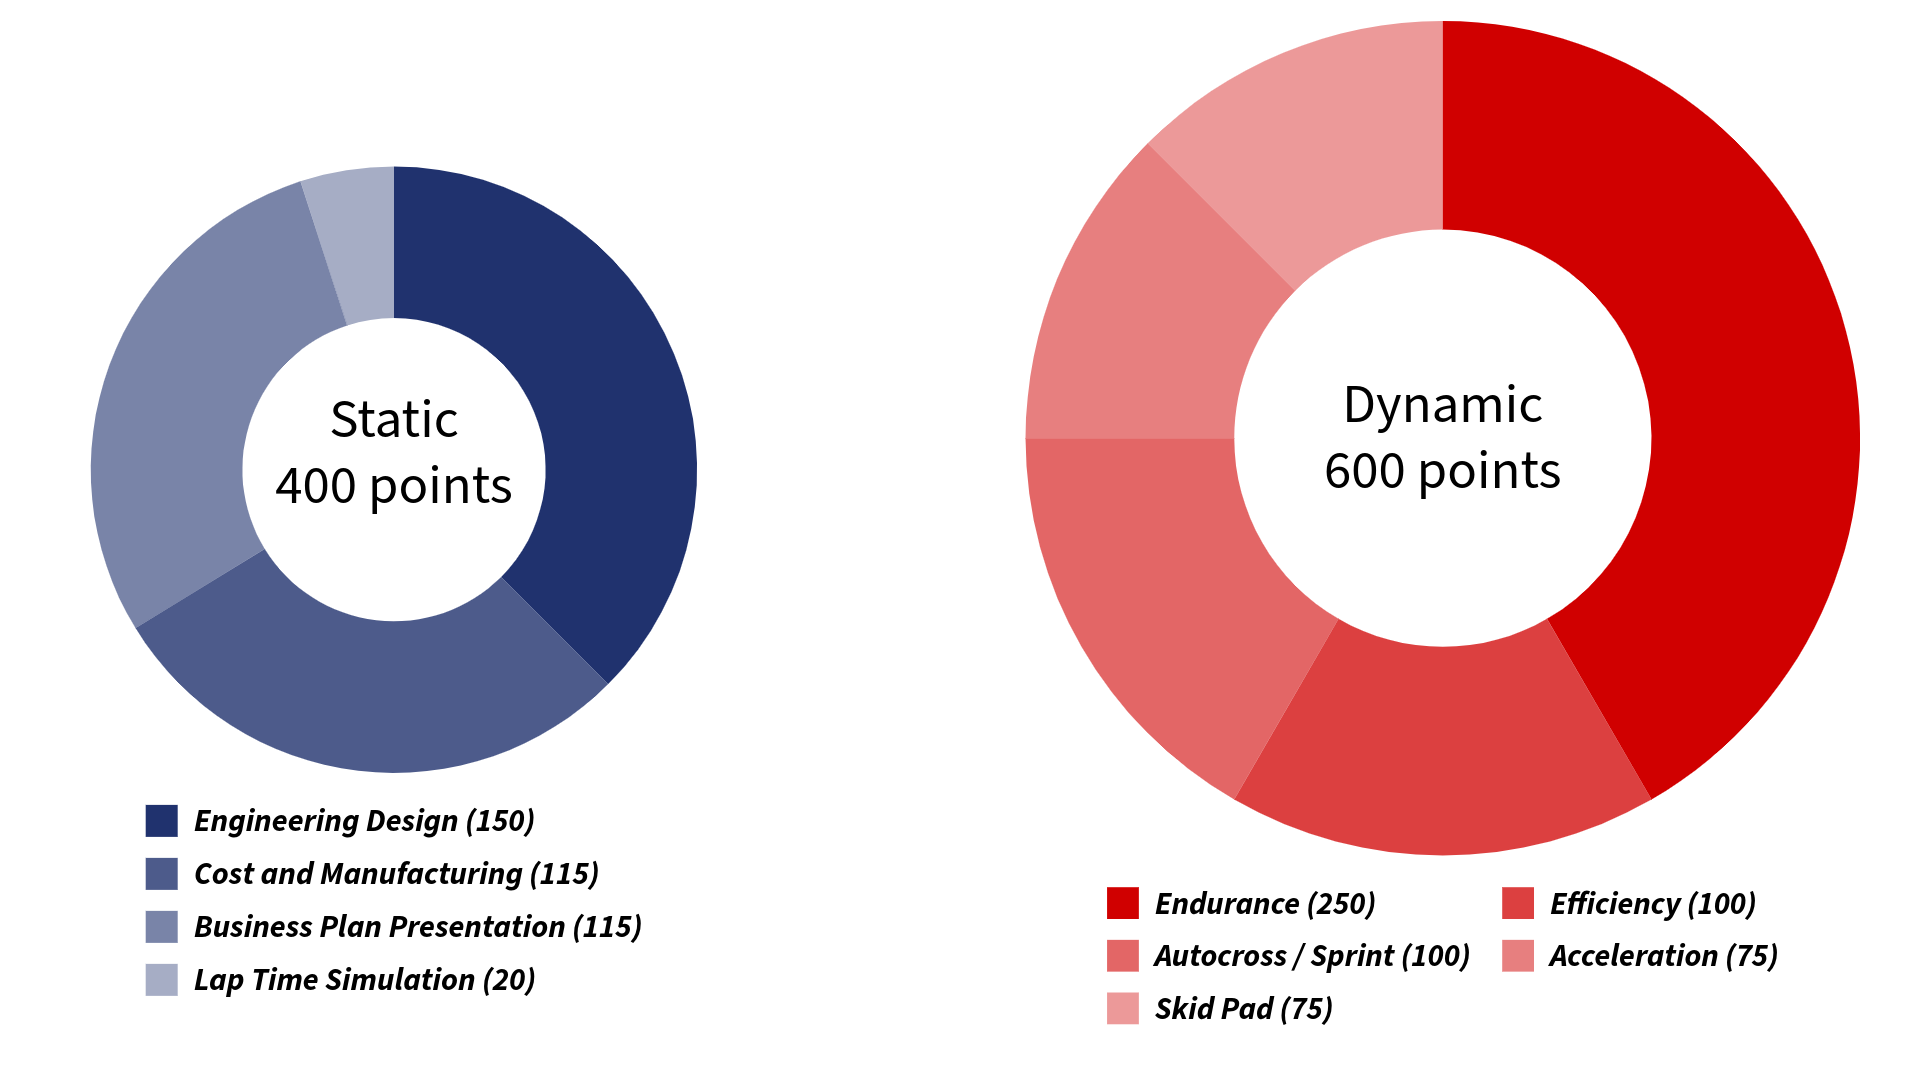
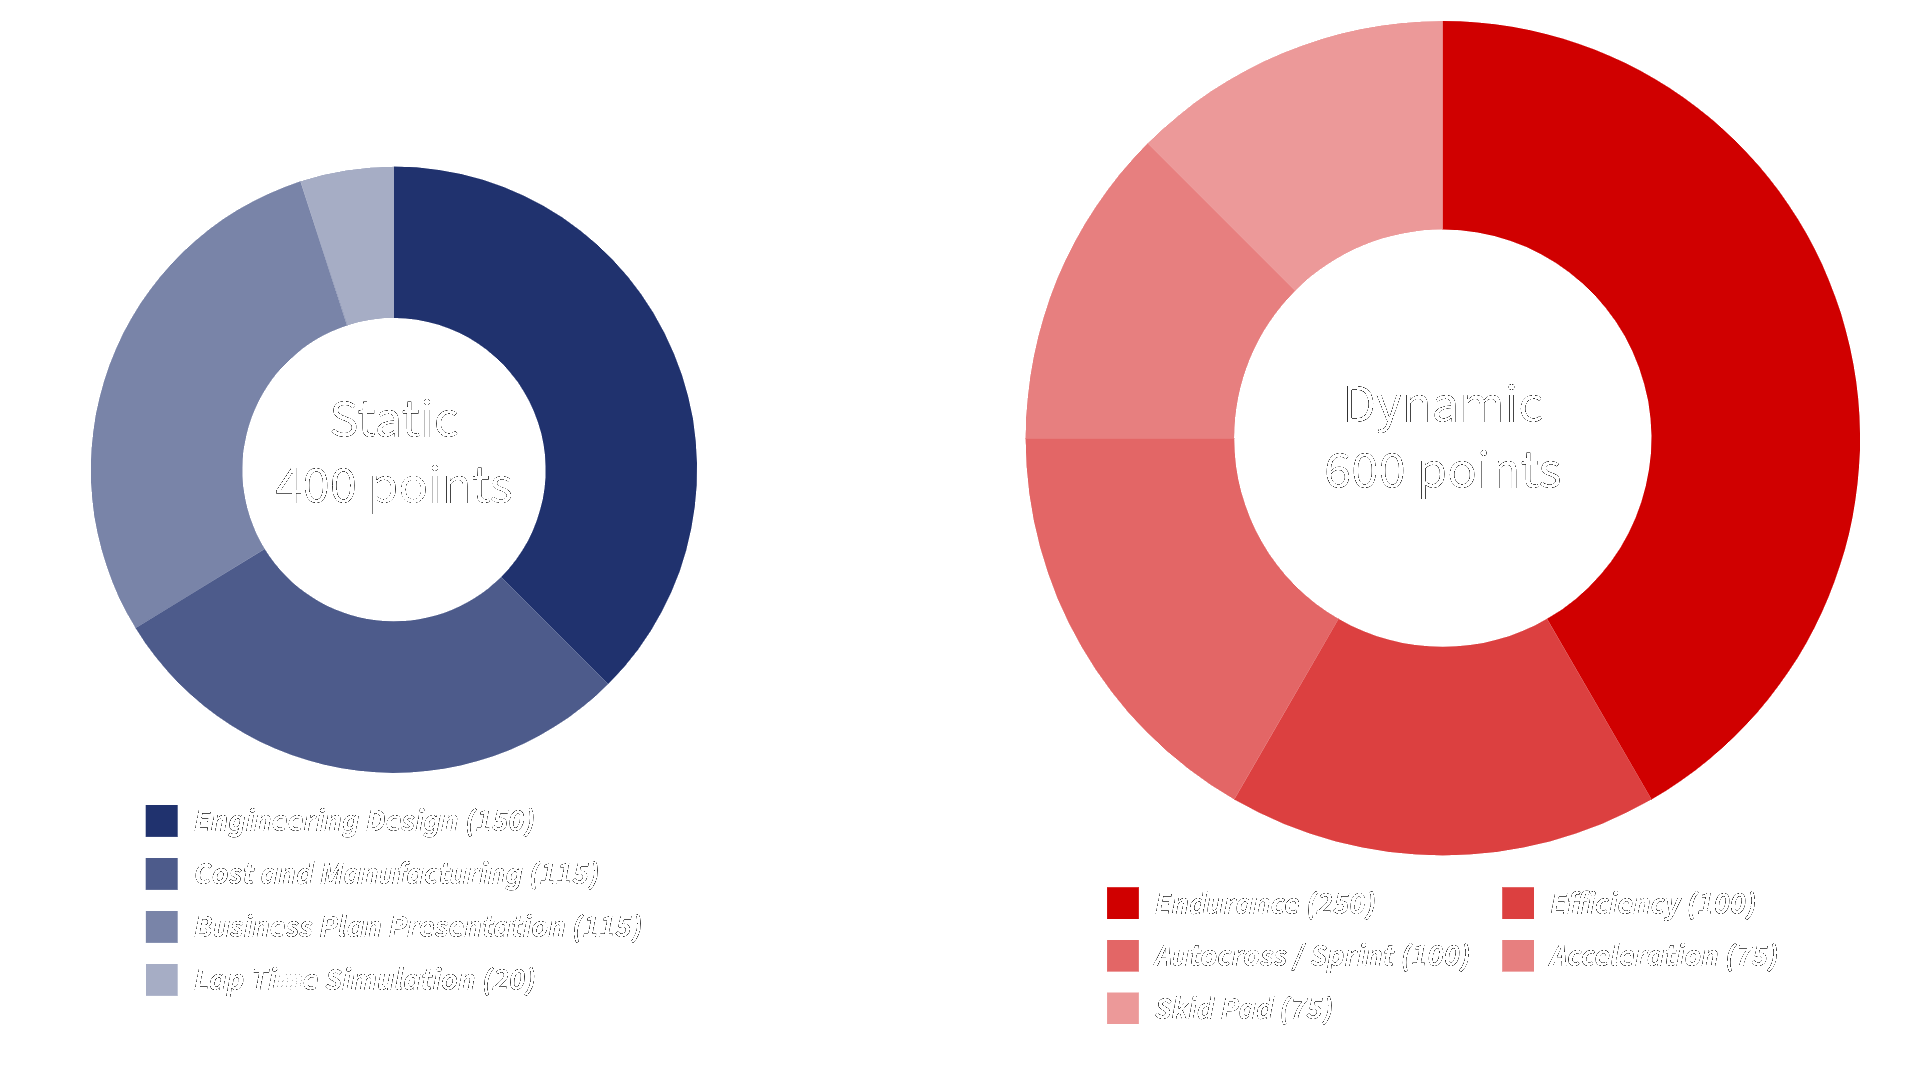
graph photo fix

diff --git a/app/page.tsx b/app/page.tsx
@@ -53,7 +53,7 @@ export default function Home() {
           </a>
         </div>
       </ul>
-      <Image src={Graph} alt="" height={800} width={800} className='bg-white aspect-video border-5 w-full xl:w-1/2 object-scale-down  border-csg-red rounded-2xl'/>
+      <Image src={Graph} alt="" height={800} width={800} className='bg-black aspect-video border-5 w-full xl:w-1/2 object-scale-down  border-csg-red rounded-2xl'/>
      </div>   
      <div>
       <SponsorCarousel/>
